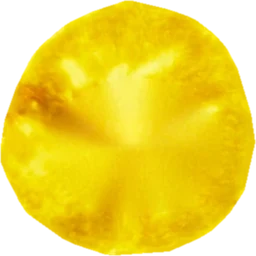
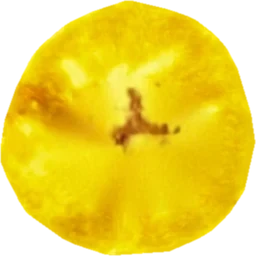
Chips: flat discs with the brown seed centre
- Drop the cupped, petal-like wavy shape; chips are flat with only a slight hand-cut wobble
- Bring the brown seed centre back onto the mascot-chip texture

Changed region(s): [[0.4062, 0.3125, 0.7188, 0.5938], [0.5938, 0.3125, 0.625, 0.3438]]

diff --git a/static/js/home/home-3d.js b/static/js/home/home-3d.js
@@ -337,8 +337,8 @@ function fromModel(model) {
   return pivot;
 }
 
-/* A banana chip: a thin wavy disc with a slight cup, its caps textured from
- * a real product photo. A per-instance `fry` attribute blends raw slice to
+/* A banana chip: a thin flat disc with a slightly uneven hand-cut outline,
+ * its caps textured from a real chip photo. A per-instance `fry` attribute blends raw slice to
  * golden chip in the shader. */
 function makeChipMesh(assets, count) {
   const R = 0.16;
@@ -347,9 +347,9 @@ function makeChipMesh(assets, count) {
   for (let i = 0; i < pos.count; i++) {
     const x = pos.getX(i), z = pos.getZ(i);
     const a = Math.atan2(z, x);
-    const edge = 1 + 0.05 * Math.sin(5 * a) + 0.03 * Math.sin(9 * a + 1.3);
+    // Low-frequency wobble only: a sliced banana is roundish, never petalled.
+    const edge = 1 + 0.025 * Math.sin(2 * a + 0.7) + 0.015 * Math.sin(3 * a + 2.1);
     pos.setX(i, x * edge); pos.setZ(i, z * edge);
-    pos.setY(i, pos.getY(i) + 0.05 * ((x * x + z * z) / (R * R)) + 0.012 * Math.sin(3 * a));
   }
   g.computeVertexNormals();
   g.setAttribute('fry', new THREE.InstancedBufferAttribute(new Float32Array(count).fill(1), 1));
